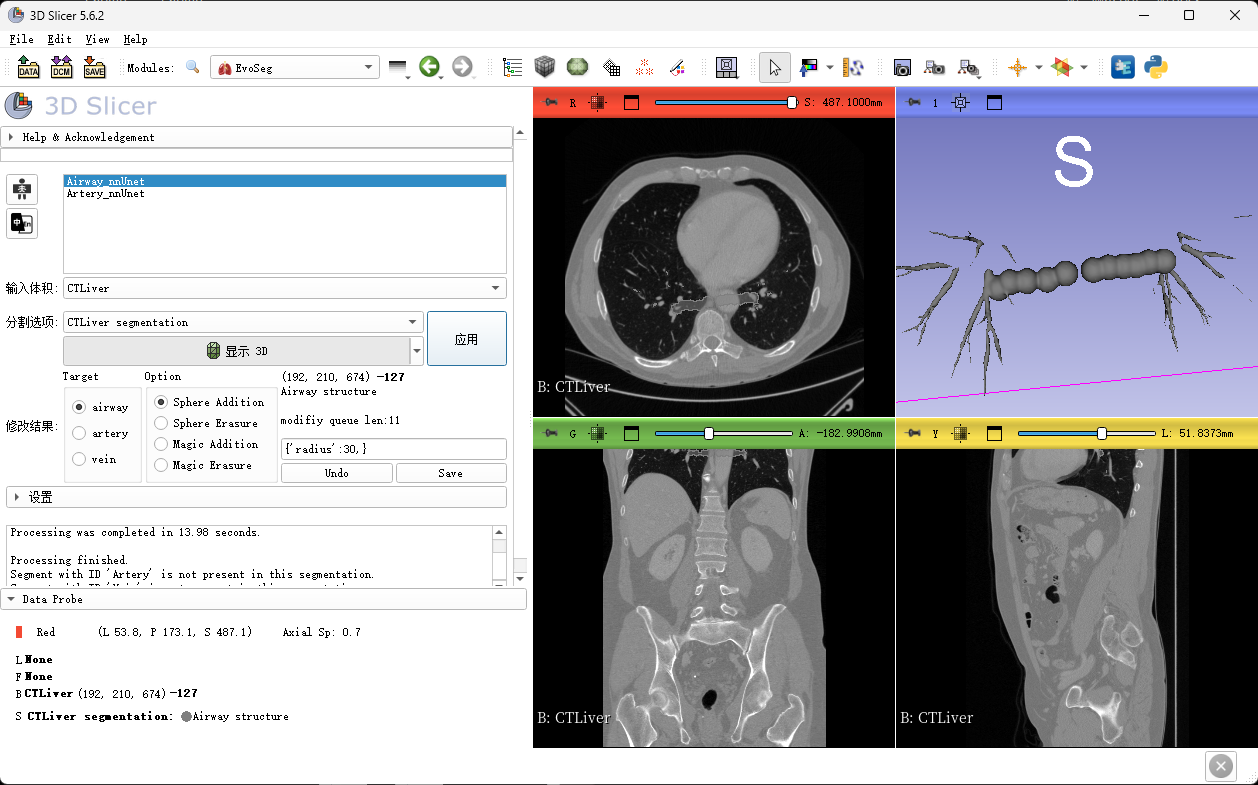
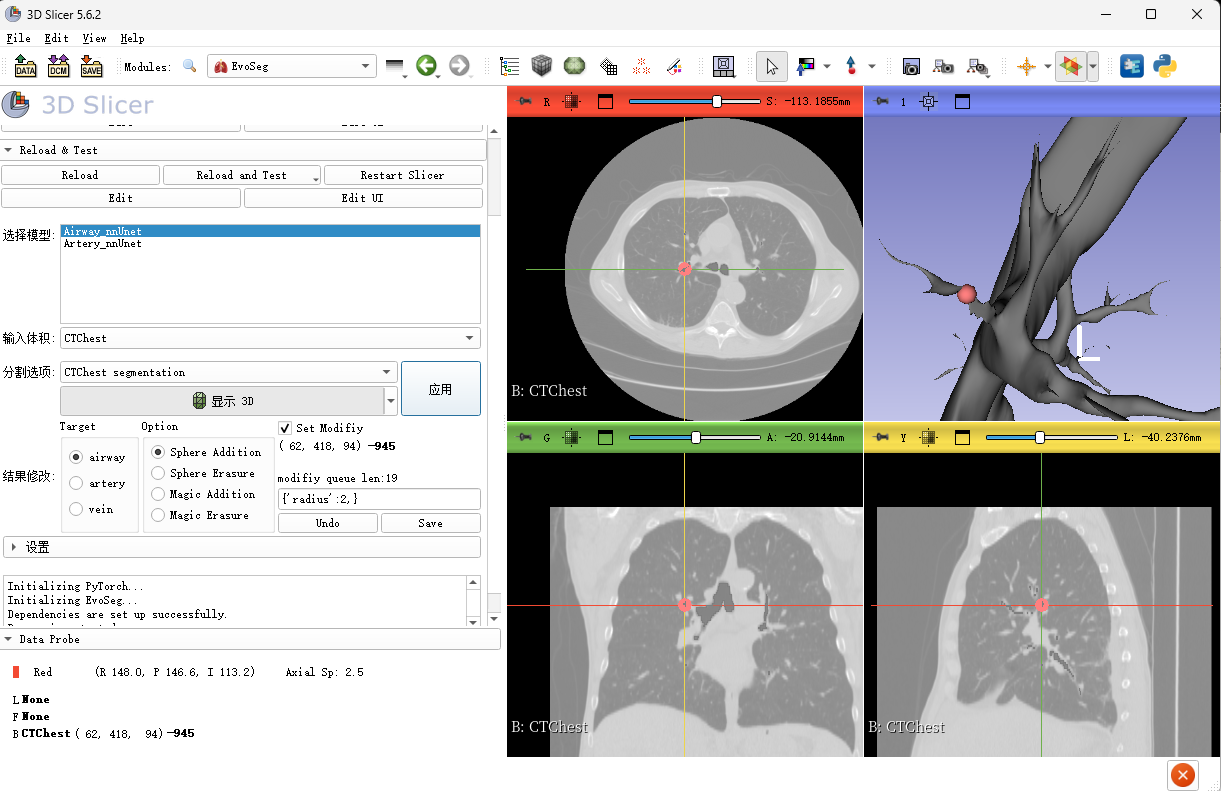
update markup modifiy

diff --git a/EvoSeg/EvoSeg.py b/EvoSeg/EvoSeg.py
@@ -103,7 +103,6 @@ class EvoSegWidget(ScriptedLoadableModuleWidget, VTKObservationMixin):
     """Uses ScriptedLoadableModuleWidget base class, available at:
     https://github.com/Slicer/Slicer/blob/main/Base/Python/slicer/ScriptedLoadableModule.py
     """
-
     PROCESSING_IDLE = 0
     PROCESSING_STARTING = 1
     PROCESSING_IN_PROGRESS = 2
@@ -123,9 +122,11 @@ class EvoSegWidget(ScriptedLoadableModuleWidget, VTKObservationMixin):
 
         self.label_np=None
 
-        self.markupsNode=None
+        self.observations = None
 
+        self.markup_node=None
         self.data_module=None
+        
 
         with open(os.path.join(os.path.dirname(slicer.util.getModule('EvoSeg').path), "Resources", "AppConfig.json"), 'r') as file:
             app_config = json.load(file)
@@ -284,10 +285,13 @@ class EvoSegWidget(ScriptedLoadableModuleWidget, VTKObservationMixin):
         self.ui.showAllModelsCheckBox.connect("toggled(bool)", self.updateParameterNodeFromGUI)
         self.ui.useStandardSegmentNamesCheckBox.connect("toggled(bool)", self.updateParameterNodeFromGUI)
 
+        self.ui.set_modifiy.connect("toggled(bool)", self.check_set_modifiy)
+
         self.ui.modelSearchBox.connect("textChanged(QString)", self.updateParameterNodeFromGUI)
         self.ui.modelComboBox.currentTextChanged.connect(self.updateParameterNodeFromGUI)
         self.ui.outputSegmentationSelector.connect("currentNodeChanged(vtkMRMLNode*)", self.updateParameterNodeFromGUI)
         self.ui.outputSegmentationSelector.connect("currentNodeChanged(vtkMRMLNode*)", self.ui.segmentationShow3DButton.setSegmentationNode)
+        #self.ui.outputSegmentationSelector.connect("currentNodeChanged(vtkMRMLNode*)", self.logic.)
         #self.ui.outputSegmentationSelector.connect("currentNodeChanged(vtkMRMLNode*)", self.ui.segmentationEditor_.setSegmentationNode)
 
         # Buttons
@@ -298,7 +302,9 @@ class EvoSegWidget(ScriptedLoadableModuleWidget, VTKObservationMixin):
         self.ui.copyModelsButton.hide()
         self.ui.packageInfoUpdateButton.connect("clicked(bool)", self.onPackageInfoUpdate)
         self.ui.packageInfoUpdateButton.hide()
-        self.ui.packageUpgradeButton.connect("clicked(bool)", self.onPackageUpgrade)
+        # self.ui.packageUpgradeButton.connect("clicked(bool)", self.onPackageUpgrade)
+        self.ui.packageUpgradeButton.hide()
+        self.ui.label_8.hide()
         self.ui.applyButton.connect("clicked(bool)", self.onApplyButton)
         self.ui.browseToModelsFolderButton.connect("clicked(bool)", self.onBrowseModelsFolder)
         self.ui.deleteAllModelsButton.connect("clicked(bool)", self.onClearModelsFolder)
@@ -341,37 +347,6 @@ class EvoSegWidget(ScriptedLoadableModuleWidget, VTKObservationMixin):
         
         if self.CrosshairNode:
             self.CrosshairNodeObserverTag = self.CrosshairNode.AddObserver(slicer.vtkMRMLCrosshairNode.CursorPositionModifiedEvent, self.processEvent)
-
-
-        # self.sliceView = slicer.app.layoutManager().sliceWidget("Red").sliceView()
-        # print(type(self.sliceView),"========================")
-        # self.checkbox = QCheckBox("123")
-        # self.sliceView.layout().addWidget(self.checkbox)
-
-        self.layoutManager = slicer.app.layoutManager()
-        
-        self.redSliceView = self.layoutManager.sliceWidget("Red")
-
-        
-        views = [
-            # slicer.app.layoutManager().threeDWidget(0).threeDView(),
-            slicer.app.layoutManager().sliceWidget("Red").sliceView(),
-            slicer.app.layoutManager().sliceWidget("Yellow").sliceView(),
-            slicer.app.layoutManager().sliceWidget("Green").sliceView()
-        ]
-
-        self.observations = []
-        # markupsDisplayNodes = slicer.util.getNodesByClass("vtkMRMLMarkupsDisplayNode")
-
-        #for markupsDisplayNode in markupsDisplayNodes:
-            # observations.append([markupsDisplayNode, markupsDisplayNode.AddObserver(markupsDisplayNode.CustomActionEvent1, self.someCustomAction)])
-        for view in views:
-                # markupsDisplayableManager = view.displayableManagerByClassName('vtkMRMLMarkupsDisplayableManager')
-                # widget = markupsDisplayableManager.GetWidget(markupsDisplayNode)
-                # widget.SetEventTranslation(widget.WidgetStateOnWidget, slicer.vtkMRMLInteractionEventData.LeftButtonClickEvent, vtk.vtkEvent.NoModifier, vtk.vtkWidgetEvent.NoEvent)
-                # widget.SetEventTranslation(widget.WidgetStateOnWidget, slicer.vtkMRMLInteractionEventData.LeftButtonClickEvent, vtk.vtkEvent.NoModifier, widget.WidgetEventCustomAction1)
-            self.observations.append([view.interactorStyle().GetInteractor(), view.interactorStyle().GetInteractor().AddObserver(vtk.vtkCommand.LeftButtonPressEvent, self.onPress, 10.0)])
-            self.observations.append([view.interactorStyle().GetInteractor(), view.interactorStyle().GetInteractor().AddObserver(vtk.vtkCommand.LeftButtonReleaseEvent, self.onRelease, 10.0)])
         
         extensionsPath = slicer.app.extensionsInstallPath
         print("Extensions Install Path:", extensionsPath)
@@ -380,9 +355,6 @@ class EvoSegWidget(ScriptedLoadableModuleWidget, VTKObservationMixin):
 
         # 显示小部件
         fourByFourWidget.show()
-
-
-        
     
         #self.tnode.AddObserver(slicer.vtkMRMLMarkupsNode.PointPositionDefinedEvent, self.AddNewMarkup)
           # if cn , language set
@@ -392,9 +364,50 @@ class EvoSegWidget(ScriptedLoadableModuleWidget, VTKObservationMixin):
         
         #self.check_py_pack()
 
+    def check_set_modifiy(self,check_it):
+        #print("?>>>",check_it)
+        if check_it:
+            self.layoutManager = slicer.app.layoutManager()
+        
+            views = [
+                slicer.app.layoutManager().threeDWidget(0).threeDView(),
+                slicer.app.layoutManager().sliceWidget("Red").sliceView(),
+                slicer.app.layoutManager().sliceWidget("Yellow").sliceView(),
+                slicer.app.layoutManager().sliceWidget("Green").sliceView()
+            ]
+
+            
+            self.markup_node=slicer.modules.markups.logic().AddControlPoint(0)
+            
+            markupsDisplayNodes = slicer.util.getNodesByClass("vtkMRMLMarkupsDisplayNode")
+            try:
+                for observedNode, observation in self.observations:
+                    observedNode.RemoveObserver(observation)
+            except:
+                pass
+
+            self.observations=[]
+            for markupsDisplayNode in markupsDisplayNodes:
+                self.observations.append([markupsDisplayNode, markupsDisplayNode.AddObserver(markupsDisplayNode.CustomActionEvent1, self.someCustomAction)])
+
+            pointListNode = slicer.util.getNode("vtkMRMLMarkupsFiducialNode1")
+            pointListNode.SetNthControlPointLabel(0, "")
+            for view in views:
+                markupsDisplayableManager = view.displayableManagerByClassName('vtkMRMLMarkupsDisplayableManager')
+                widget = markupsDisplayableManager.GetWidget(markupsDisplayNode)
+                widget.SetEventTranslation(widget.WidgetStateOnWidget, slicer.vtkMRMLInteractionEventData.RightButtonClickEvent, vtk.vtkEvent.NoModifier, vtk.vtkWidgetEvent.NoEvent)
+                widget.SetEventTranslation(widget.WidgetStateOnWidget, slicer.vtkMRMLInteractionEventData.RightButtonClickEvent, vtk.vtkEvent.NoModifier, widget.WidgetEventCustomAction1)
+                # self.observations.append([view.interactorStyle().GetInteractor(), view.interactorStyle().GetInteractor().AddObserver(vtk.vtkCommand.LeftButtonPressEvent, self.onPress, 10.0)])
+                # self.observations.append([view.interactorStyle().GetInteractor(), view.interactorStyle().GetInteractor().AddObserver(vtk.vtkCommand.LeftButtonReleaseEvent, self.onRelease, 10.0)])
+        else:
+            print("should delete")
+            pointListNode = slicer.util.getNode("vtkMRMLMarkupsFiducialNode1")
+            pointListNode.RemoveAllMarkups()
+
     def onButtonUndoClick(self):
         self.data_module.undo()
-        self.ui.label_6.setText("modifiy queue len:"+str(self.data_module.get_history_len()))
+        self.ui.label_6.setText("Modifiy Queue Len:"+str(self.data_module.get_history_len()))
+        self.FasterUpdateSegForonPress(self.data_module.get_masks())
     def onButtonSaveClick(self):
         #segmentation_nodes = slicer.util.getNodesByClass('vtkMRMLSegmentationNode')
         self.logic.set_new_data_module(self.data_module);
@@ -409,14 +422,15 @@ class EvoSegWidget(ScriptedLoadableModuleWidget, VTKObservationMixin):
 
     def onPress(self,arg1, arg2):
         
-        #try:
+        try:
             import ast
             position_=self.ui.label_img.text.split("<b>")
             x,y,z=ast.literal_eval(position_[0])
             #print(x,y,z,position_[1].split("</b>")[0]=="Out of Frame")
             #print("Press")
             if self.data_module==None and position_[1].split("</b>")[0]=="Out of Frame":
-                self.ui.label_img.setText(self.ui.label_img.text+" Erro: data module no init!")
+                #self.ui.label_img.setText(self.ui.label_img.text+" Erro: data module no init!")
+                QMessageBox.warning(None, "错误", f"模型输出数据丢失，请先进行分割")
             else:
                 #print(self.data_module.get_masks())
                 optin_select=self.button_group2.checkedButton().text
@@ -431,12 +445,13 @@ class EvoSegWidget(ScriptedLoadableModuleWidget, VTKObservationMixin):
                 self.FasterUpdateSegForonPress(self.data_module.get_masks())
                 #print(self.button_group.checkedButton().text)
                 #self.data_module.
-                self.ui.label_6.setText("modifiy queue len:"+str(self.data_module.get_history_len()))
-                self.ui.label_img.setText(self.ui.label_img.text+" >> add")
+                self.ui.label_6.setText("Modifiy Queue Len:"+str(self.data_module.get_history_len()))
+                self.ui.label_img.setText(self.ui.label_img.text+"  ")
 
             
-        #except:
-        #    pass
+        except:
+            print("No segmentation")
+            pass
     def FasterUpdateSegForonPress(self, segmentation_masks):
         import numpy as np
         inputNodeName = self.ui.inputNodeSelector0.currentNode().GetName()
@@ -470,9 +485,64 @@ class EvoSegWidget(ScriptedLoadableModuleWidget, VTKObservationMixin):
         #self.ui.label_img.setText(self.ui.label_img.text+" add done")
         return
     def someCustomAction(self,caller, eventId):
+        import numpy as np
         markupsDisplayNode = caller
         print(type(markupsDisplayNode))
         print(f"Custom action activated in {markupsDisplayNode.GetNodeTagName()}")
+        inputNodeName = self.ui.inputNodeSelector0.currentNode().GetName()
+        volumeNode = slicer.util.getNode(inputNodeName)
+        pointListNode = slicer.util.getNode("F")
+        markupsIndex = 0
+
+        # Get point coordinate in RAS
+        point_Ras = [0, 0, 0]
+        pointListNode.GetNthControlPointPositionWorld(markupsIndex, point_Ras)
+
+        # If volume node is transformed, apply that transform to get volume's RAS coordinates
+        transformRasToVolumeRas = vtk.vtkGeneralTransform()
+        slicer.vtkMRMLTransformNode.GetTransformBetweenNodes(None, volumeNode.GetParentTransformNode(), transformRasToVolumeRas)
+        point_VolumeRas = transformRasToVolumeRas.TransformPoint(point_Ras)
+
+        # Get voxel coordinates from physical coordinates
+        volumeRasToIjk = vtk.vtkMatrix4x4()
+        volumeNode.GetRASToIJKMatrix(volumeRasToIjk)
+        point_Ijk = [0, 0, 0, 1]
+        volumeRasToIjk.MultiplyPoint(np.append(point_VolumeRas,1.0), point_Ijk)
+        point_Ijk = [ int(round(c)) for c in point_Ijk[0:3] ]
+
+        # Print output
+        print(point_Ijk)
+
+        try:
+            import ast
+            position_=self.ui.label_img.text.split("<b>")
+            x,y,z=point_Ijk#ast.literal_eval(position_[0])
+            #print(x,y,z,position_[1].split("</b>")[0]=="Out of Frame")
+            #print("Press")
+            if self.data_module==None and position_[1].split("</b>")[0]=="Out of Frame":
+                self.ui.label_img.setText(self.ui.label_img.text+" Erro: data module no init!")
+            else:
+                #print(self.data_module.get_masks())
+                optin_select=self.button_group2.checkedButton().text
+                param = ast.literal_eval(self.ui.lineEdit_radius.text)
+                #self.ui.label_img.setText(self.ui.label_img.text+ self.button_group.checkedButton().text+" "+self.button_group2.checkedButton().text+" "+str(param['radius']))
+                if optin_select=="Sphere Addition":
+                    self.data_module.sphere_addition(x, y, z, self.button_group.checkedButton().text, **param)
+                elif optin_select=="Sphere Erasure":
+                    self.data_module.sphere_erasure(x, y, z, self.button_group.checkedButton().text, **param)
+                else:
+                    return
+                self.FasterUpdateSegForonPress(self.data_module.get_masks())
+                #print(self.button_group.checkedButton().text)
+                #self.data_module.
+                self.ui.label_6.setText("modifiy queue len:"+str(self.data_module.get_history_len()))
+                self.ui.label_img.setText(self.ui.label_img.text+" ")
+
+            
+        except:
+            print("No segmentation")
+            pass
+
         #slicer.mrmlScene.RemoveNode(markupsDisplayNode)
 
     # def generateViewDescription(self, xyz, ras, sliceNode, sliceLogic):
@@ -1004,14 +1074,15 @@ class EvoSegWidget(ScriptedLoadableModuleWidget, VTKObservationMixin):
         with slicer.util.tryWithErrorDisplay("Failed to get EVO package version information", waitCursor=True):
             self.ui.packageInfoTextBrowser.plainText = self.logic.installedEVOPythonPackageInfo().rstrip()
 
-    def onPackageUpgrade(self):
-        with slicer.util.tryWithErrorDisplay("Failed to upgrade EVO", waitCursor=True):
-            self.logic.setupPythonRequirements(upgrade=True)
-        self.onPackageInfoUpdate()
-        if not slicer.util.confirmOkCancelDisplay(f"This EVO update requires a 3D Slicer restart.","Press OK to restart."):
-            raise ValueError("Restart was cancelled.")
-        else:
-            slicer.util.restart()
+    # NOTE:  will delete
+    # def onPackageUpgrade(self):
+    #     with slicer.util.tryWithErrorDisplay("Failed to upgrade EVO", waitCursor=True):
+    #         self.logic.setupPythonRequirements(upgrade=True)
+    #     self.onPackageInfoUpdate()
+    #     if not slicer.util.confirmOkCancelDisplay(f"This EVO update requires a 3D Slicer restart.","Press OK to restart."):
+    #         raise ValueError("Restart was cancelled.")
+    #     else:
+    #         slicer.util.restart()
 
     def onBrowseModelsFolder(self):
         import qt
@@ -1434,7 +1505,7 @@ class EvoSegLogic(ScriptedLoadableModuleLogic):
                                  + f" with version requirement set to: >={minimumTorchVersion}")
 
         # Install EVO with required components
-        self.log("Initializing EVO...")
+        self.log("Initializing EvoSeg...")
         # Specify minimum version 1.3, as this is a known working version (it is possible that an earlier version works, too).
         # Without this, for some users EVO-0.9.0 got installed, which failed with this error:
         # "ImportError: cannot import name ‘MetaKeys’ from 'EVO.utils'"

diff --git a/README.md b/README.md
@@ -26,9 +26,11 @@ Slicer3D segmentation extension
 9. Modify Segmentation Result:
   - Select `Target` 
   - Select `Option` checkbutton.
-  - Edit `radius` if you want.
+  - And the important is check the `Set Modifiy` , a Markup will added in 3D view.
+  - Edit `radius` if you want, then right Click the Markup, can modifiy the data.
+  - You can Click `Interaction` button in slicer. its helpfull you mind the position. 
   - Click `Segmentation Image` find the places where connections are interrupted
-  - Click `Save` button to update Segmentation.
+  - Click `Save` button to Save the Segmentation data in local file.
   - Reference image is for demonstration only; we used a large radius circular fill.
 ![](screenshot_6.jpg)
 
